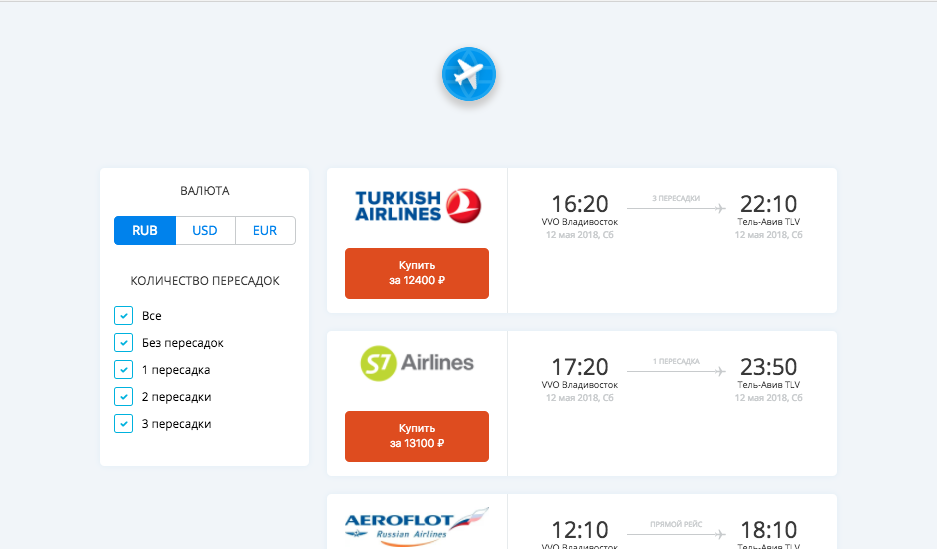
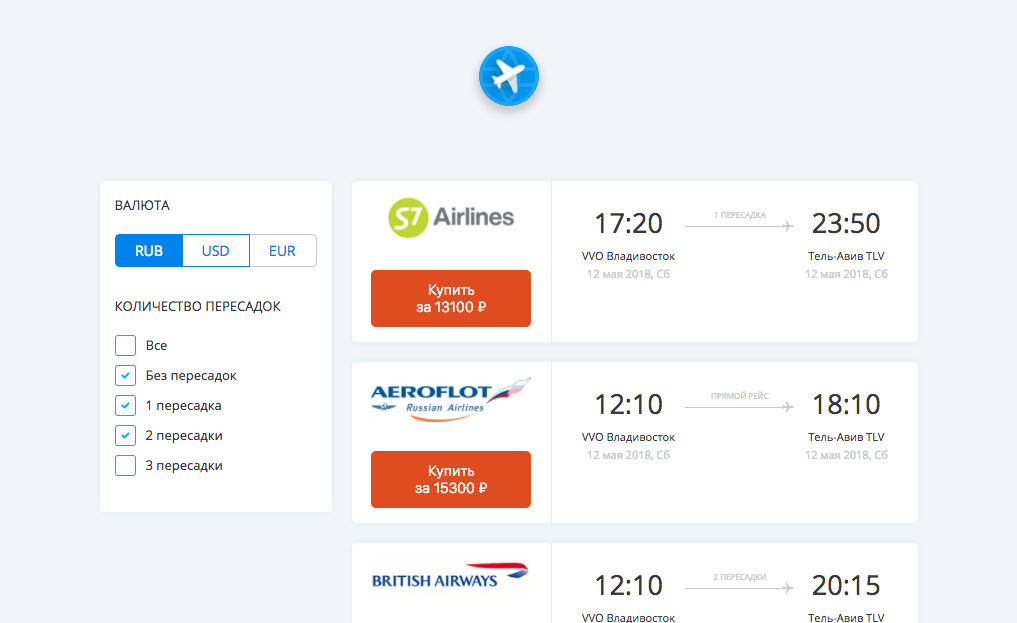
Небольшие правки по стилю

diff --git a/src/components/Offer/RightOfferPart/index.jsx b/src/components/Offer/RightOfferPart/index.jsx
@@ -11,7 +11,7 @@ moment.locale('fr');
  * Константа с размером текста маленького размера
  * @type {string}
  */
-const SMALL_FONT = '10px';
+const SMALL_FONT = '11px';
 
 /**
  * Константа с цветом светло цвета
@@ -39,9 +39,10 @@ const StyledRightOfferPart = styled.div`
  * Блок с временем
  */
 const Time = styled.div`
-	font-size: 25px;
-	line-height: 25px;
 	color: ${DARK_COLOR};
+	font-size: 27px;
+	line-height: 27px;
+	margin-bottom: 10px;
 `;
 
 /**
@@ -50,7 +51,7 @@ const Time = styled.div`
 const City = styled.div`
 	color: ${DARK_COLOR};
 	font-size: ${SMALL_FONT};
-	line-height: 15px;
+	line-height: 20px;
 `;
 
 /**

diff --git a/server.js b/server.js
@@ -10,7 +10,7 @@ const port = process.env.PORT || 5000;
 app.get('/api/getOffers', (req, res) => {
 	setTimeout(() => {
 		res.send(foundResult.tickets);
-	}, Math.random() * 10000);
+	}, Math.random() * 5000);
 });
 
 app.listen(port, () => console.log(`Listening on port ${port}`));

diff --git a/src/components/Checkbox/index.jsx b/src/components/Checkbox/index.jsx
@@ -19,6 +19,7 @@ const Box = styled.div`
  * Лейбл(текст рядом с чекбоксом)
  */
 const Label = styled.span`
+	color: #393939;
 	display: inline-flex;
 	font-size: 13px;
 	line-height: 21px;

diff --git a/src/components/Offer/LeftOfferPart/index.jsx b/src/components/Offer/LeftOfferPart/index.jsx
@@ -23,7 +23,7 @@ const BuyButton = styled.button`
 	background-color: #d64d08;
 	border: 0;
 	color: #fff;
-	font-size: 12px;
+	font-size: 14px;
 	font-weight: 100;
 	height: 57px;
 	line-height: 17px;

diff --git a/src/components/Filters/CurrencyFilter/index.jsx b/src/components/Filters/CurrencyFilter/index.jsx
@@ -89,6 +89,7 @@ const Header = styled.div`
 	color: #393939;
 	font-size: 13px;
 	margin-bottom: 20px;
+	text-align: left;
 	text-transform: uppercase;
 `;
 

diff --git a/src/components/Filters/StopFilter/index.jsx b/src/components/Filters/StopFilter/index.jsx
@@ -10,6 +10,7 @@ const Header = styled.div`
 	color: #393939;
 	font-size: 13px;
 	margin-bottom: 20px;
+	text-align: left;
 	text-transform: uppercase;
 `;
 
